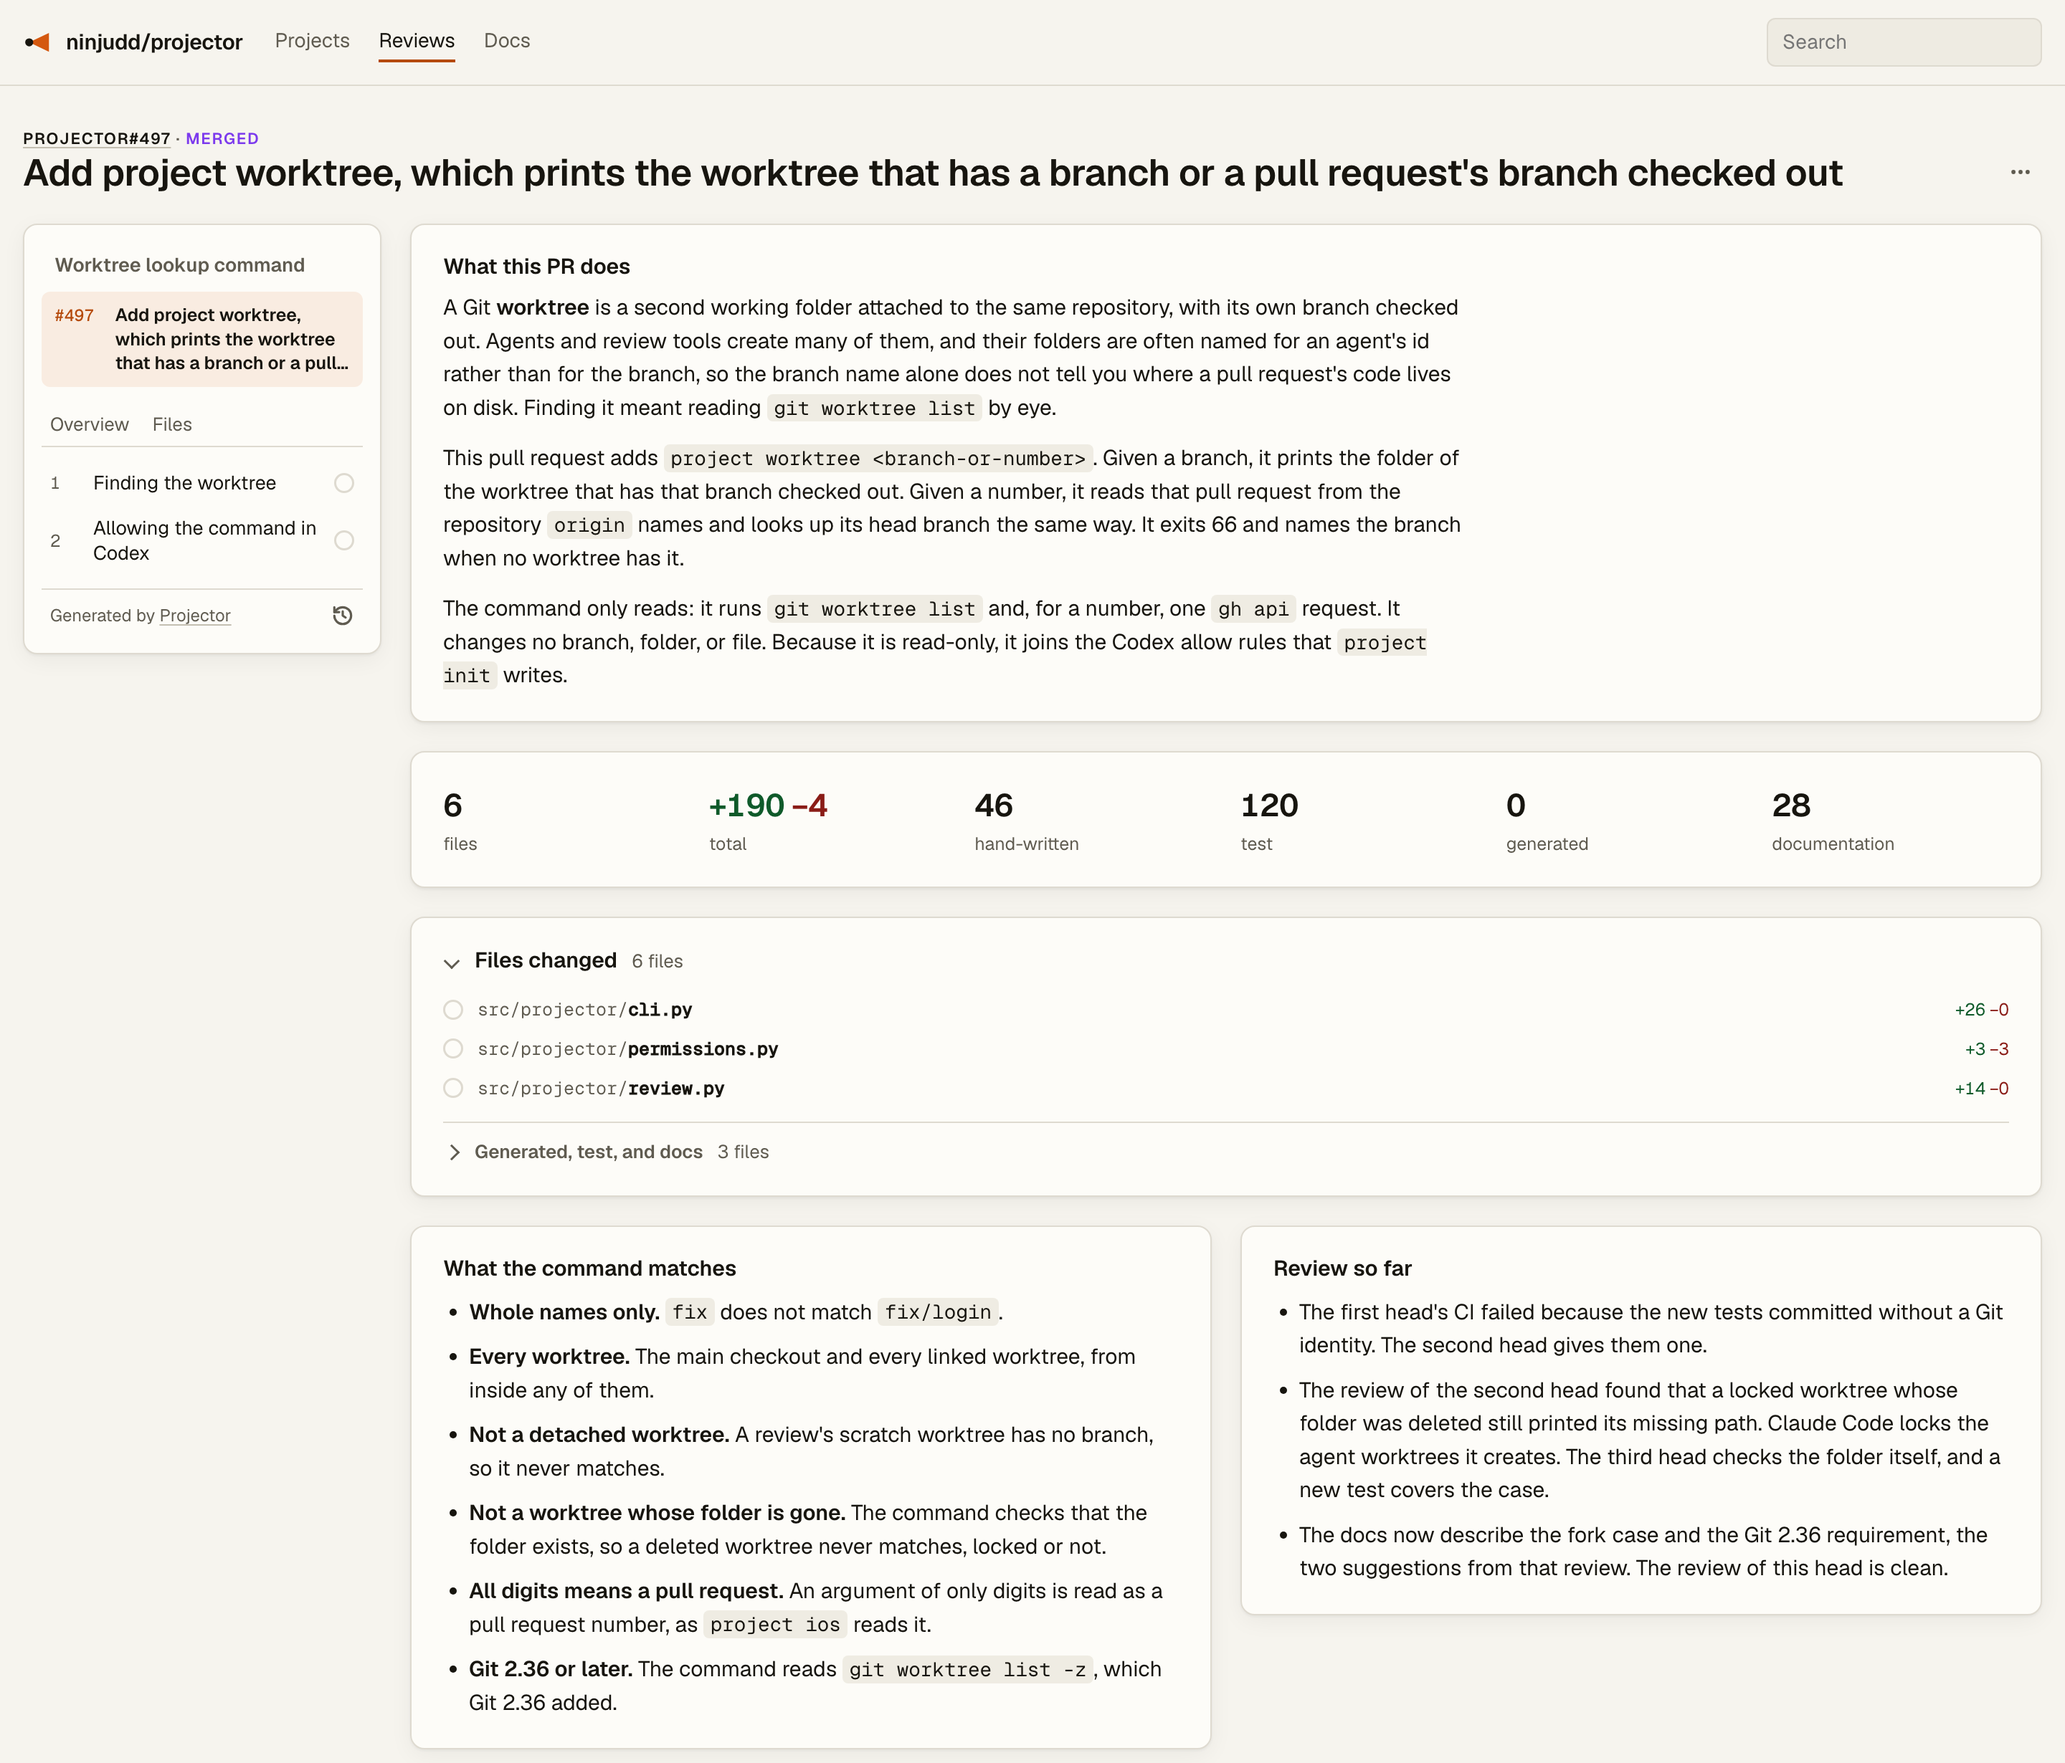
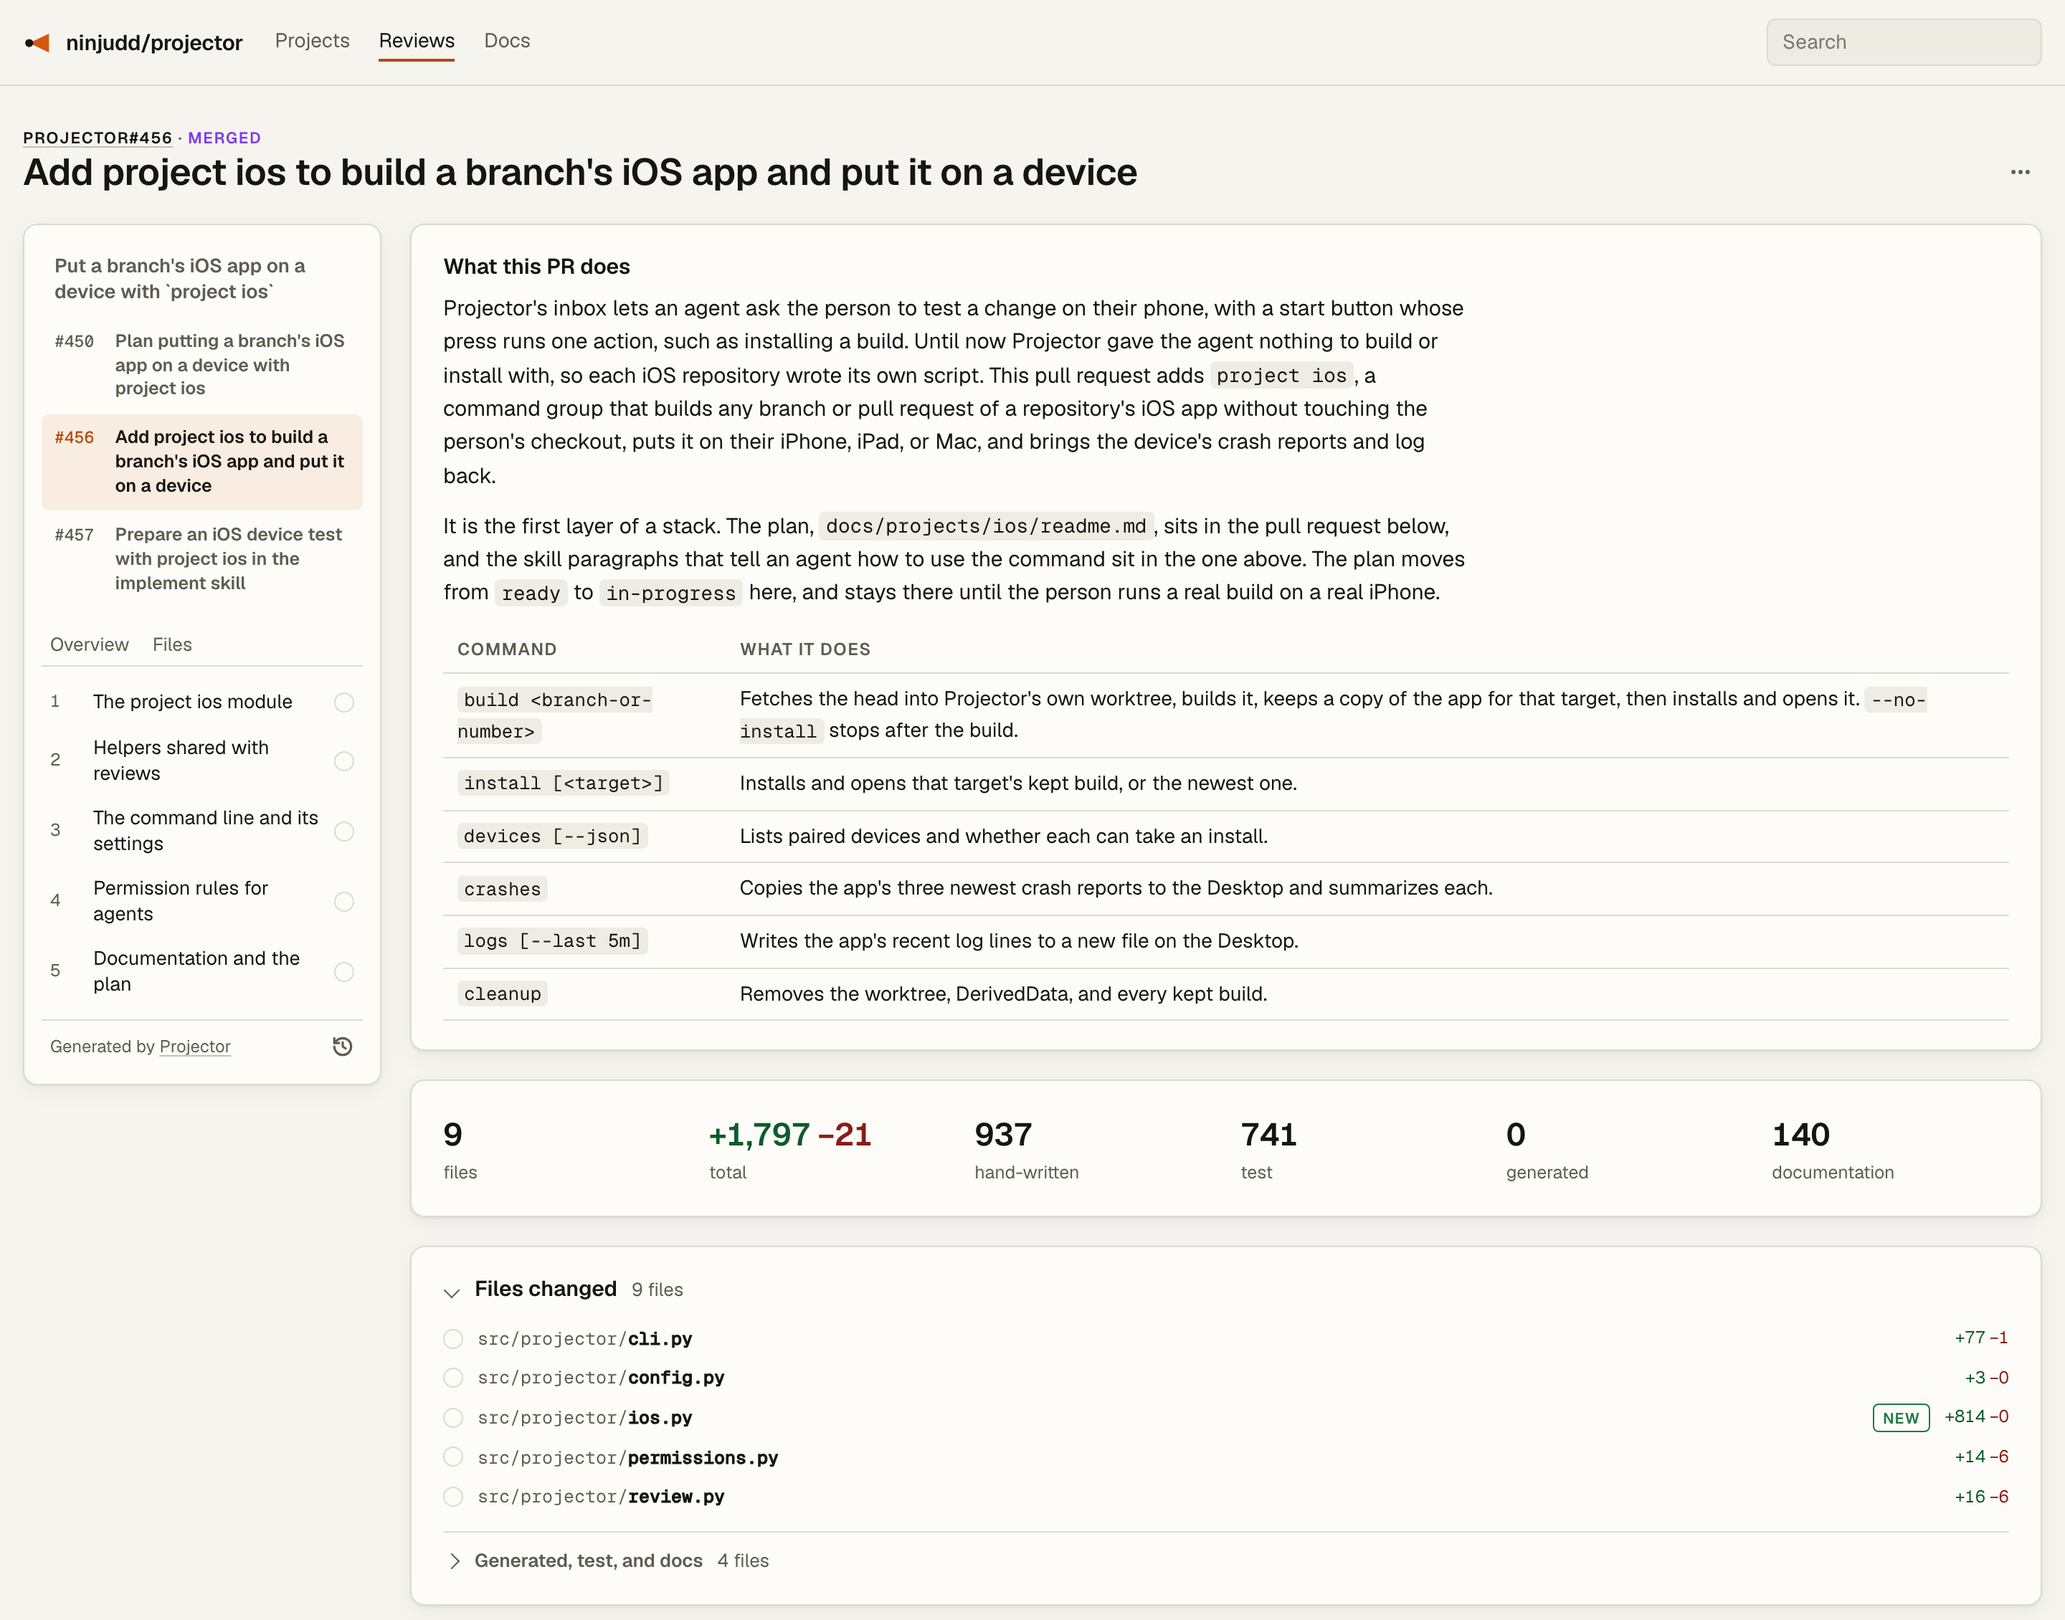
Show a stacked pull request's summary, and put the install command under the headline

diff --git a/web/components/sections/hero.tsx b/web/components/sections/hero.tsx
@@ -26,23 +26,14 @@ export function Hero() {
   return (
     <section>
       <div className="mx-auto max-w-6xl px-6 pb-20 pt-16 lg:pb-24 lg:pt-20">
-        <div className="grid gap-10 lg:grid-cols-[minmax(0,1.1fr)_minmax(0,1fr)] lg:items-end lg:gap-16">
-          <h1 className="font-display text-6xl leading-[0.98] tracking-tight text-fg sm:text-7xl">
-            Agents plan, build, and review.
-            <br />
-            <em className="text-accent">You make the calls.</em>
-          </h1>
+        <div className="grid gap-8 lg:grid-cols-[minmax(0,1.1fr)_minmax(0,1fr)] lg:items-start lg:gap-16">
           <div className="min-w-0">
-            <p className="text-lg leading-relaxed text-muted">
-              Projector gives Claude Code and Codex a workflow for projects.
-              Agents write the plan into the repository, build it, review each
-              other&rsquo;s pull requests, and fix what the reviews find. You
-              review the plan, answer the questions only you can, and decide
-              what merges. Every question waits for you in a panel above your
-              prompt, and every pull request comes with a summary that walks you
-              through the change.
-            </p>
-            <div className="mt-6">
+            <h1 className="font-display text-6xl leading-[0.98] tracking-tight text-fg sm:text-7xl">
+              Agents plan, build, and review.
+              <br />
+              <em className="text-accent">You make the calls.</em>
+            </h1>
+            <div className="mt-8 max-w-xl">
               <Command text={INSTALL.script} />
             </div>
             <p className="mt-3 font-mono text-xs text-faint">
@@ -76,6 +67,15 @@ export function Hero() {
               </a>
             </div>
           </div>
+          <p className="min-w-0 text-lg leading-relaxed text-muted lg:pt-2">
+            Projector gives Claude Code and Codex a workflow for projects.
+            Agents write the plan into the repository, build it, review each
+            other&rsquo;s pull requests, and fix what the reviews find. You
+            review the plan, answer the questions only you can, and decide what
+            merges. Every question waits for you in a panel above your prompt,
+            and every pull request comes with a summary that walks you through
+            the change.
+          </p>
         </div>
 
         <div className="mt-14 grid gap-8 lg:grid-cols-[minmax(0,1fr)_17rem] lg:gap-10">

diff --git a/web/components/sections/summaries.tsx b/web/components/sections/summaries.tsx
@@ -49,6 +49,15 @@ const parts: { title: string; body: ReactNode }[] = [
     ),
   },
   {
+    title: "Stacks read as one change",
+    body: (
+      <>
+        A pull request that is one layer of a stack lists every layer in its sidebar, so you can
+        read the plan, the change, and what builds on it in order.
+      </>
+    ),
+  },
+  {
     title: "What the reviews found so far",
     body: (
       <>
@@ -110,7 +119,7 @@ export function Summaries() {
         <Shot
           light={overviewLight}
           dark={overviewDark}
-          alt="The top of a Projector summary: what the pull request does, its size by kind of line, the files changed, and what the reviews found so far"
+          alt="The top of a Projector summary: the stack the pull request sits in, what it does, its size by kind of line, and the files it changes"
           sizes="(min-width: 1152px) 1104px, 100vw"
         />
         <figcaption className="mt-3 text-sm text-muted">
@@ -121,9 +130,10 @@ export function Summaries() {
             rel="noreferrer"
             className="underline decoration-line-strong underline-offset-4 transition-colors hover:text-fg"
           >
-            ninjudd/projector#497
+            ninjudd/projector#456
           </a>
-          , the pull request that added <Code>project worktree</Code>.
+          , which added <Code>project ios</Code>. Its sidebar lists the stack it sits in: the plan
+          in #450, this change, and the skill change in #457 that uses it.
         </figcaption>
       </figure>
 
@@ -155,11 +165,11 @@ export function Summaries() {
           <Shot
             light={sectionLight}
             dark={sectionDark}
-            alt="A section of a Projector summary: its explanation, a context note, and a diff with a context note and a verified note under the lines they concern"
+            alt="Part of a Projector summary's diff, with two context notes under the lines they concern"
             sizes="(min-width: 1152px) 700px, 100vw"
           />
           <figcaption className="mt-3 text-sm text-muted">
-            Section 1 of the same summary. The notes sit under the lines they concern.
+            Part of section 1 of the same summary. Each note sits under the lines it concerns.
           </figcaption>
         </figure>
       </div>

diff --git a/web/lib/links.ts b/web/lib/links.ts
@@ -33,7 +33,7 @@ export const PROJECTOR_SITE = "https://ninjudd.com/projector/";
 
 // The summary the front page shows, on Projector's own site.
 export const SUMMARY_EXAMPLE = {
-  page: `${PROJECTOR_SITE}reviews/497/`,
+  page: `${PROJECTOR_SITE}reviews/456/`,
   index: `${PROJECTOR_SITE}reviews/`,
 };
 
